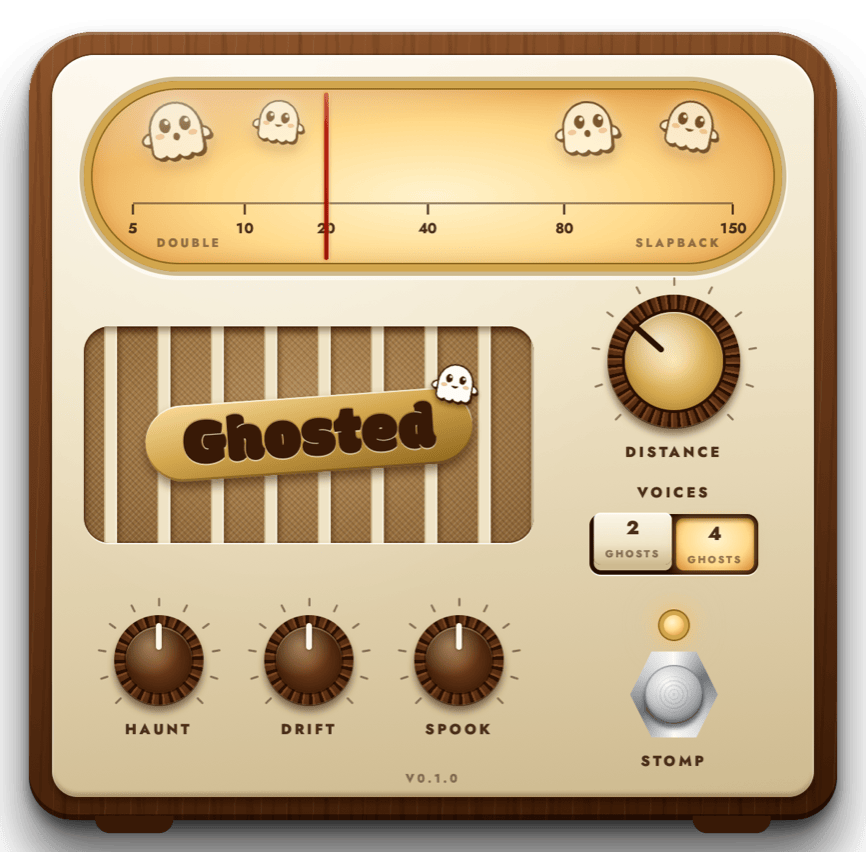
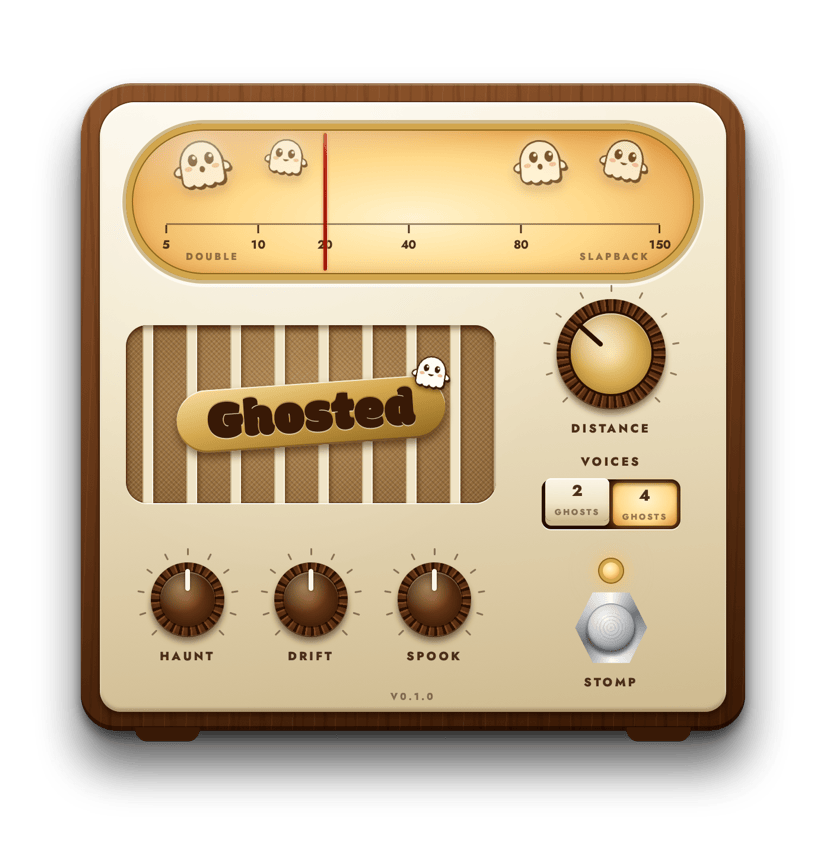
Leave room in screenshots for the drop shadow
On a transparent background the object's drop shadow was cut off at
the window's edge. The capture now pads the window by 48 px on the top
and sides and 80 px below, and lets html and body overflow so the
shadow isn't clipped.

Claude-Session: https://claude.ai/code/session_01M6vpxR81VaPY9T4oUmhAa4

diff --git a/README.md b/README.md
@@ -1,6 +1,6 @@
 # Ghosted
 
-<img src="docs/ghosted.png" width="433" alt="Ghosted, a vintage walnut and cream bakelite radio with an amber dial full of ghosts, a brass Ghosted badge in a puffy font on the speaker grille, a brass Distance tuning knob, 2 and 4 ghost band keys, and Haunt, Drift and Spook knobs, and a chrome footswitch under an amber pilot lamp">
+<img src="docs/ghosted.png" width="413" alt="Ghosted, a vintage walnut and cream bakelite radio with an amber dial full of ghosts, a brass Ghosted badge in a puffy font on the speaker grille, a brass Distance tuning knob, 2 and 4 ghost band keys, and Haunt, Drift and Spook knobs, and a chrome footswitch under an amber pilot lamp">
 
 Drifting double-tracking for guitar, vocals or anything else, as a
 VST3 and CLAP plugin for macOS and Windows. It adds two or four delayed
